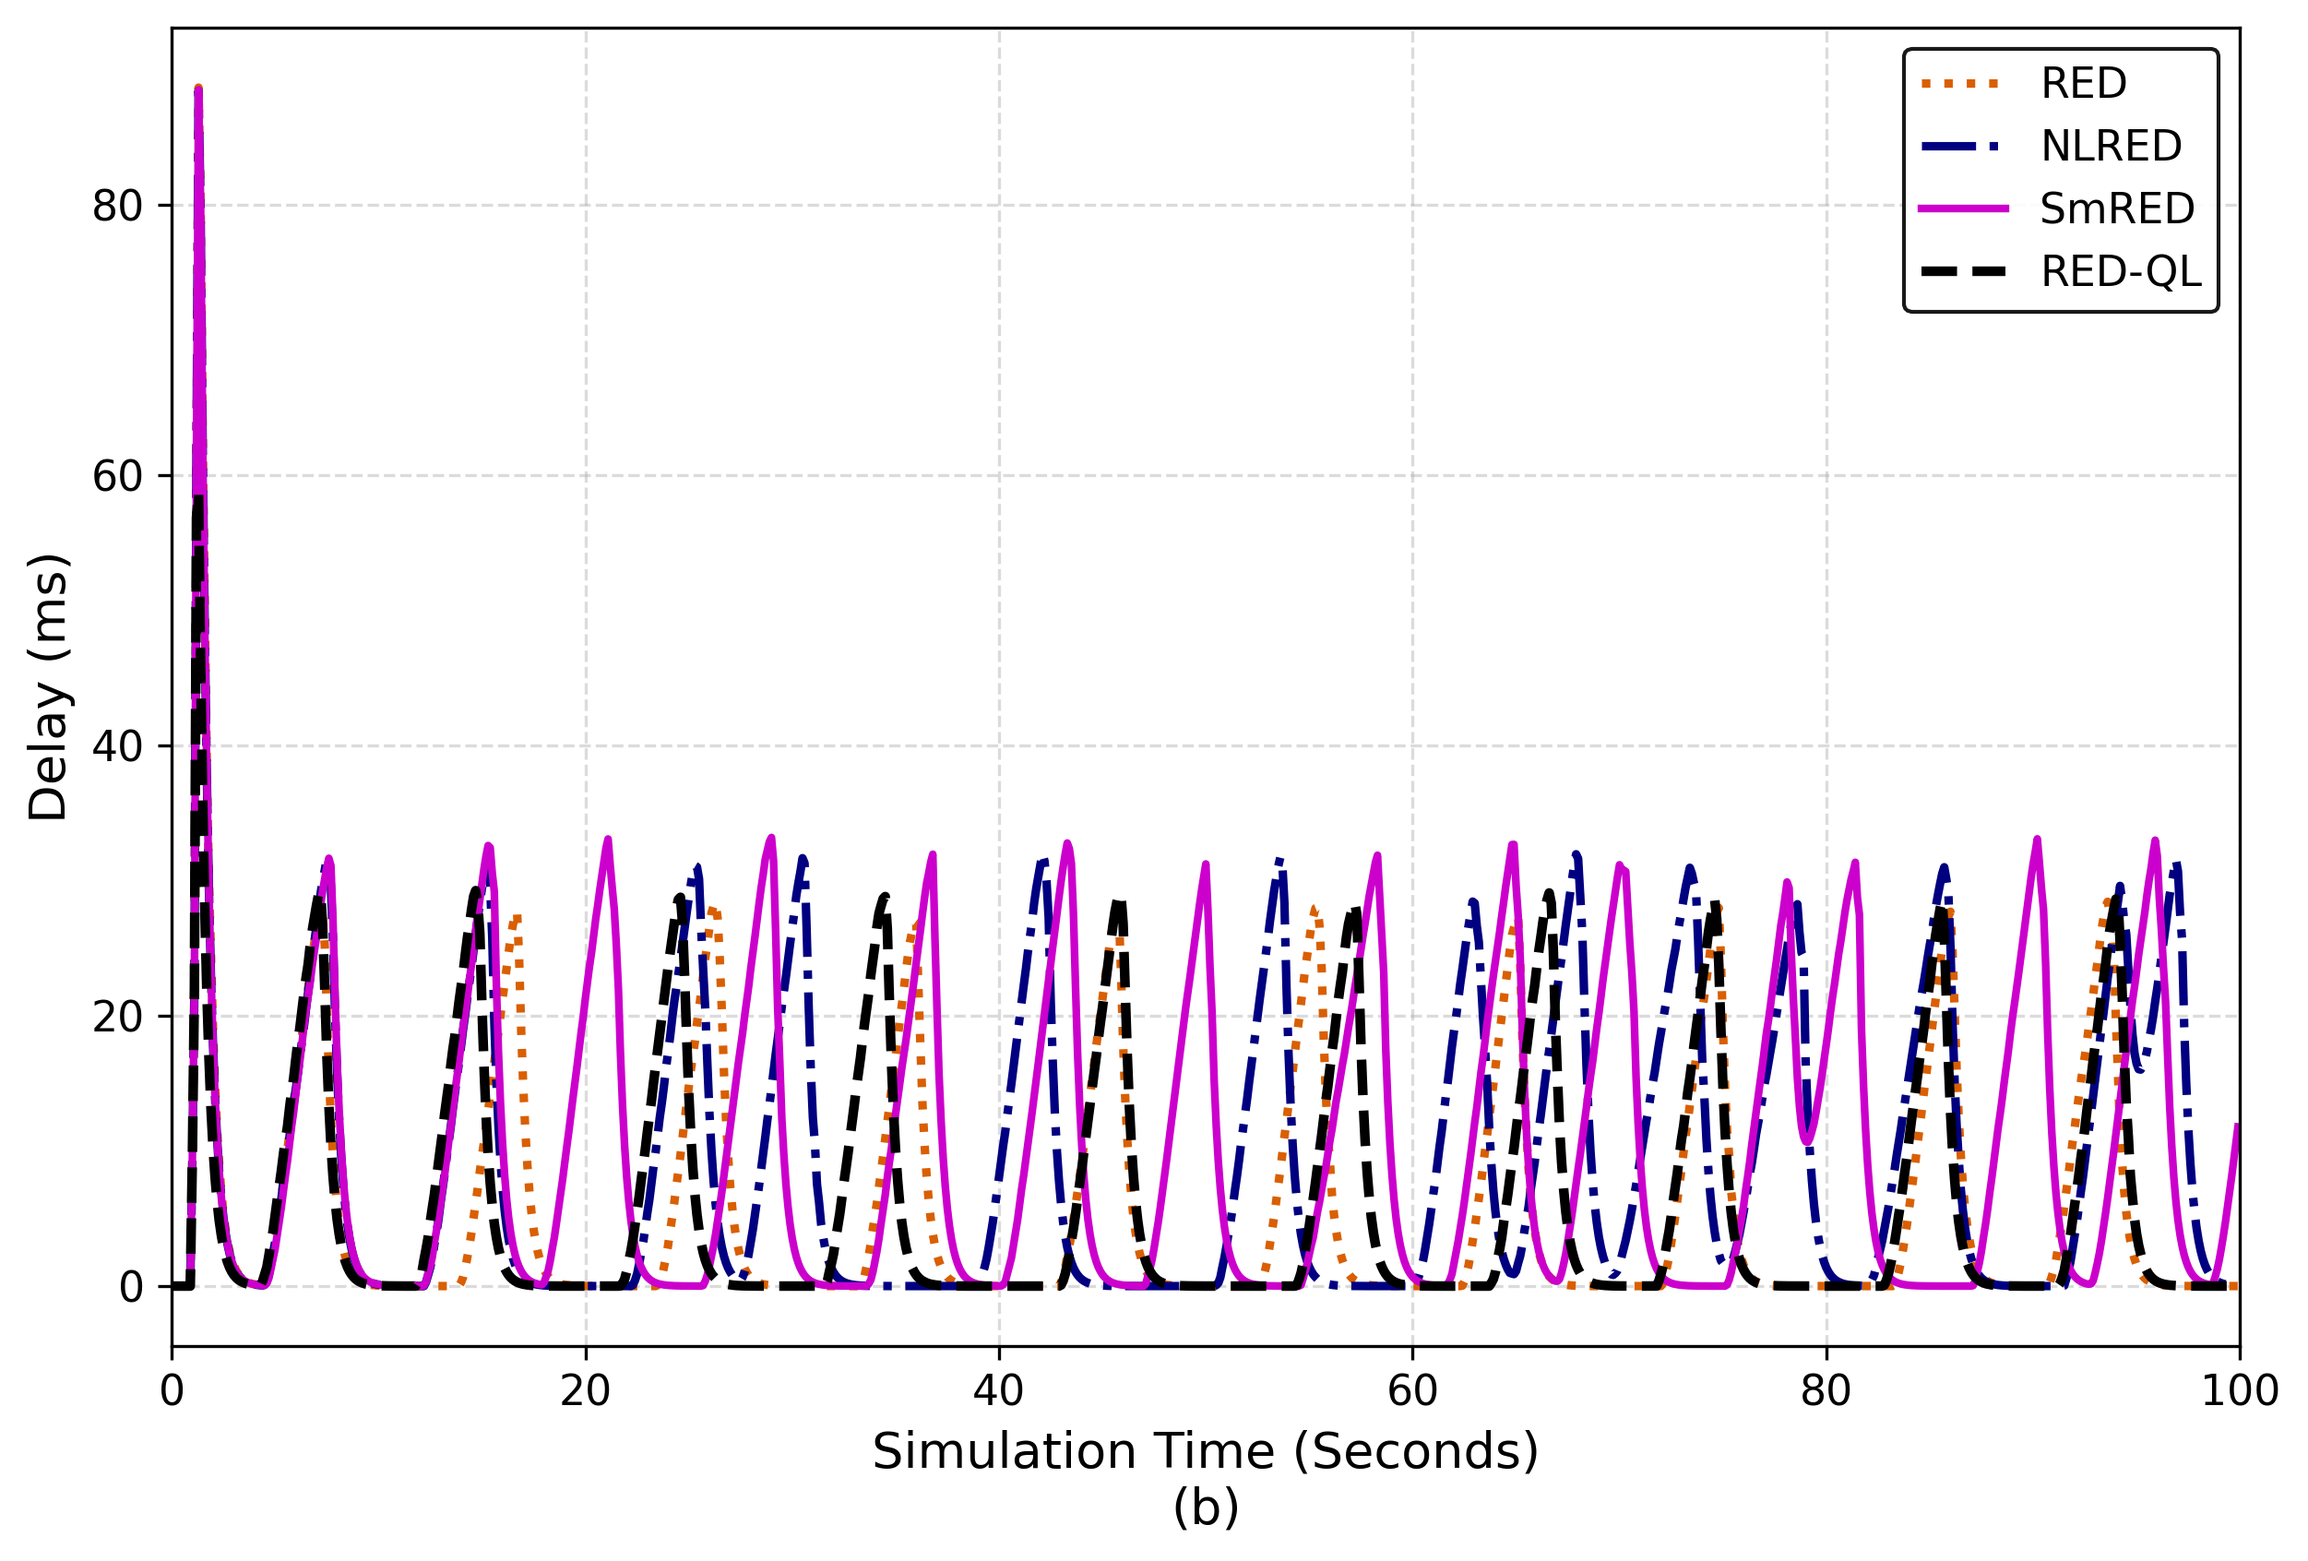
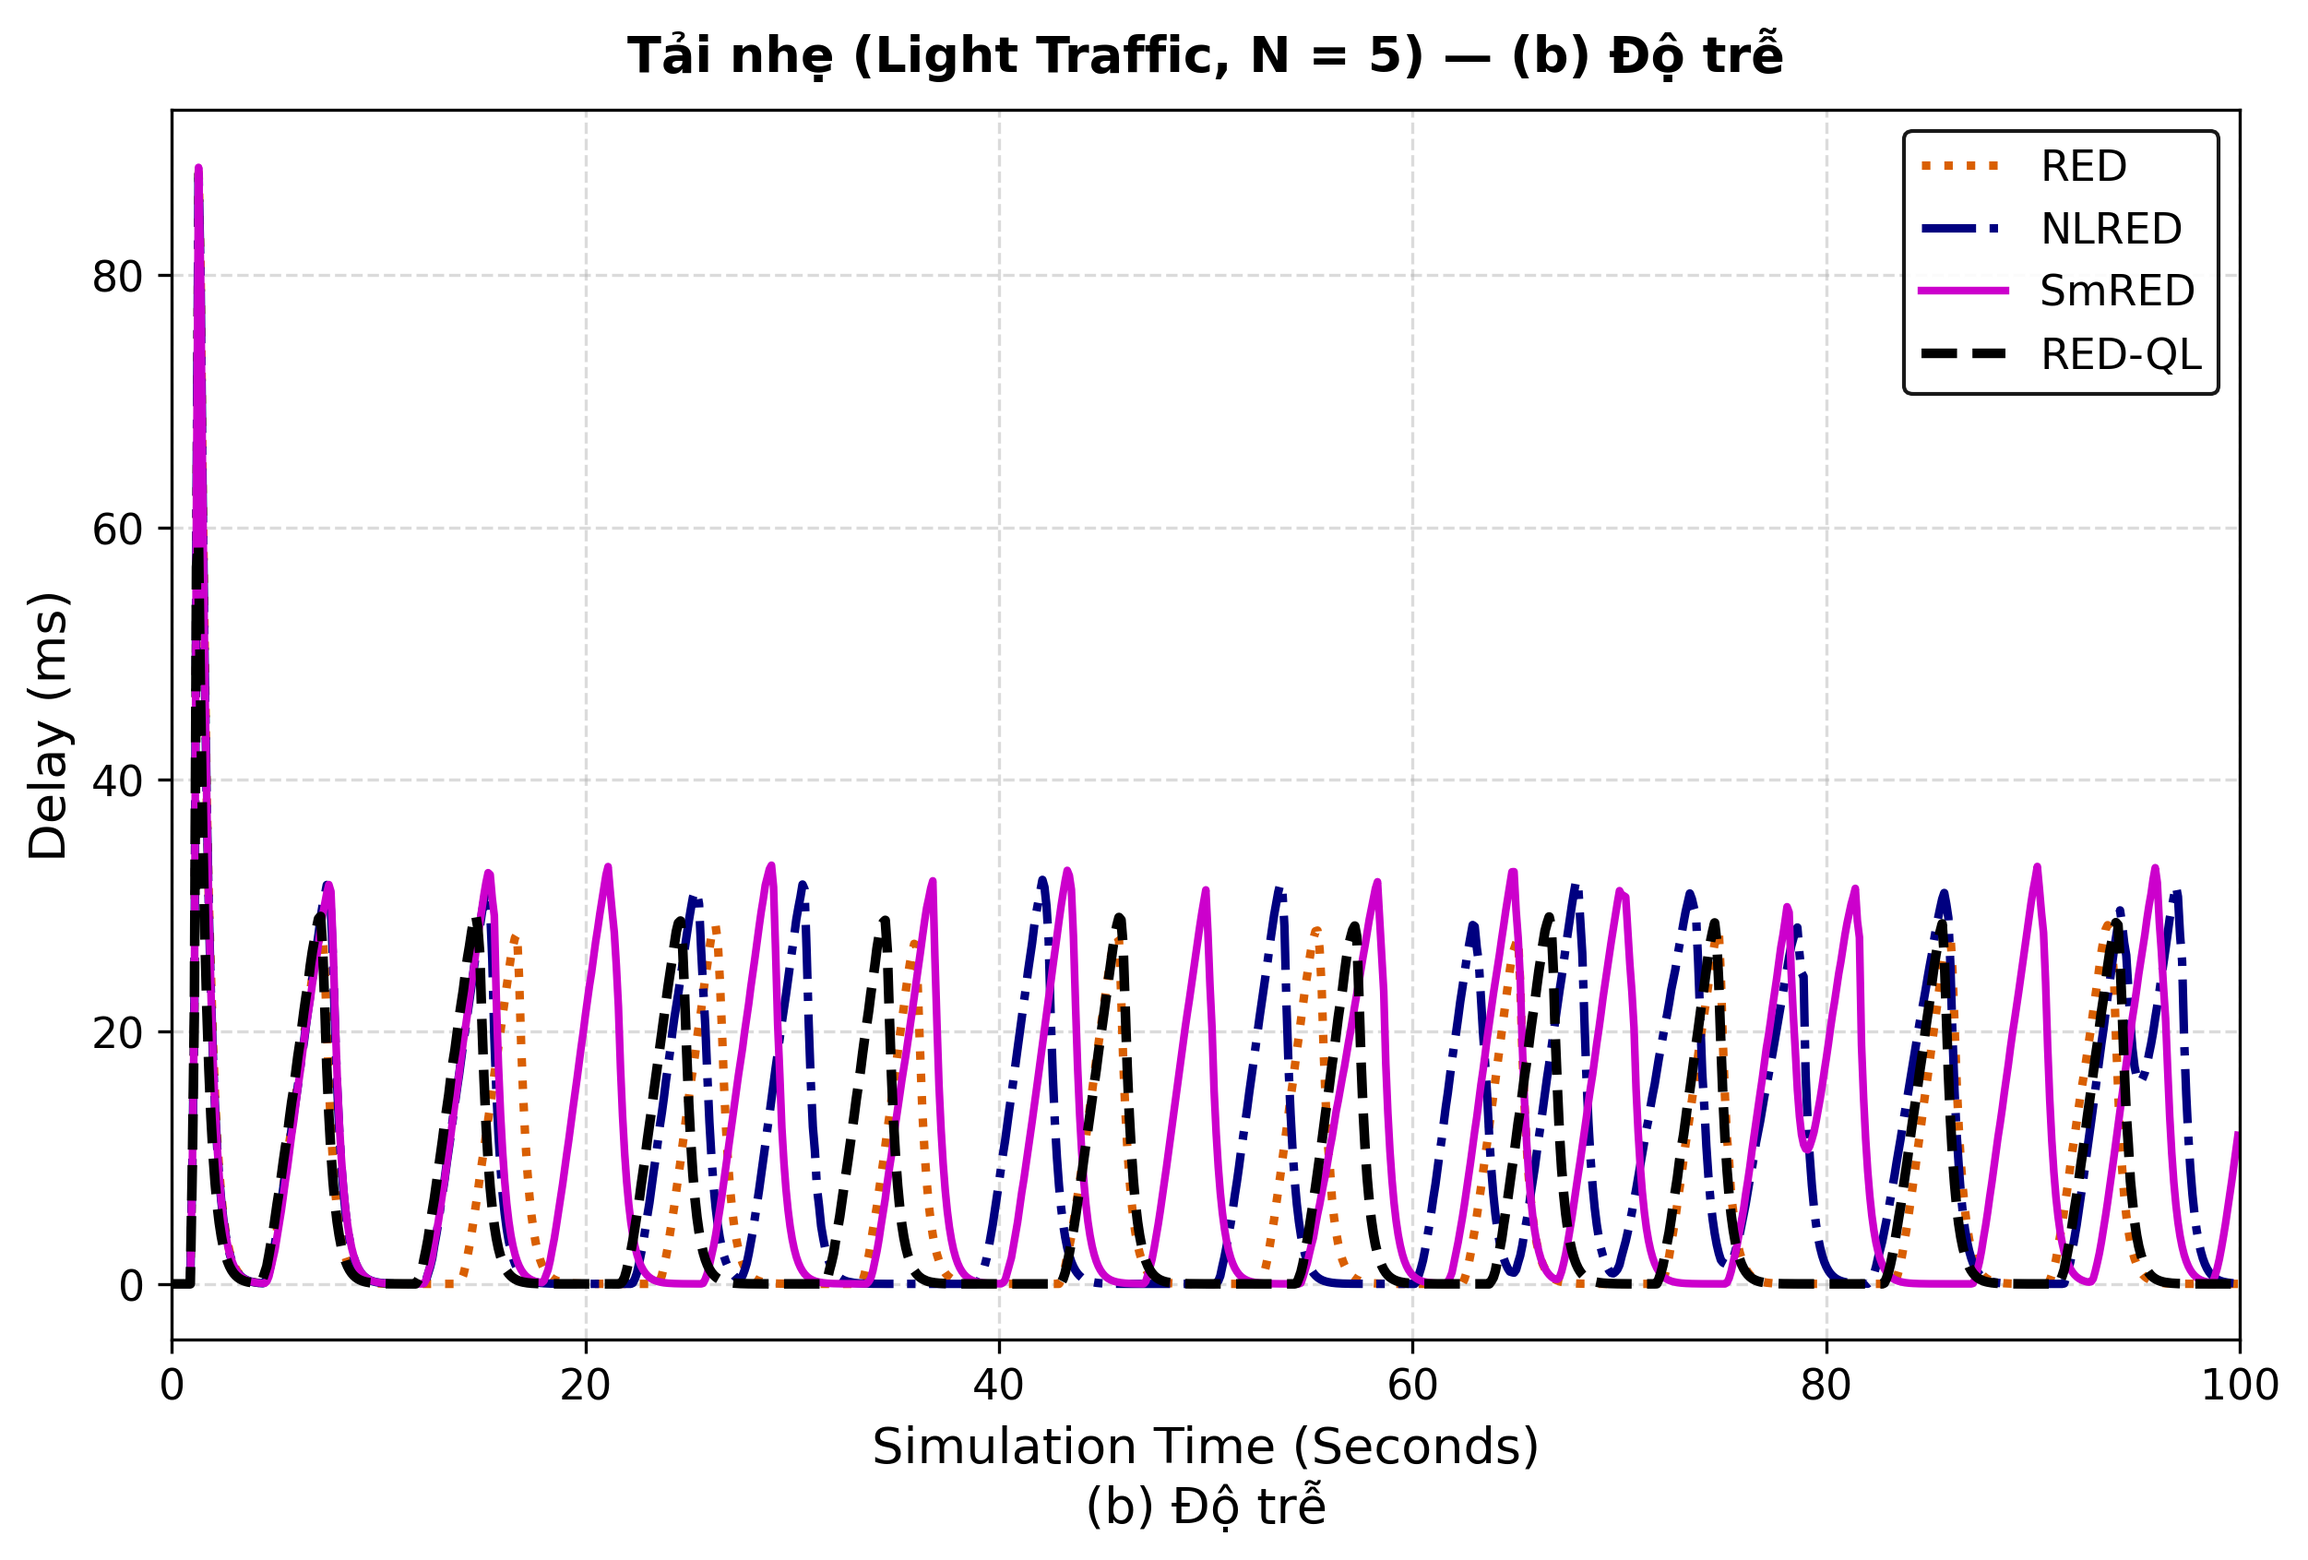
Cap nhat nhan bieu do (a) hang doi, (b) do tre, (c) thong luong theo 3 muc tai

diff --git a/scratch/red-ql-project/plot_results.py b/scratch/red-ql-project/plot_results.py
@@ -60,19 +60,21 @@ styles = {
     'RED-QL': {'color': '#000000', 'ls': '--', 'lw': 2.5}
 }
 
+# Thêm nhãn tiếng Việt cho từng kịch bản tải
 scenarios = [
-    ("Light", 3, "N = 5", "a"),
-    ("Moderate", 4, "N = 20", "b"),
-    ("Heavy", 5, "N = 50", "c")
+    ("Light", "Tải nhẹ", 3, "N = 5", "a"),
+    ("Moderate", "Tải trung bình", 4, "N = 20", "b"),
+    ("Heavy", "Tải nặng", 5, "N = 50", "c")
 ]
 
 full_table_rows = []
 metrics_by_sc = {"Queue": [], "Delay": [], "Tput": []}
 
 print("\n=== BẢNG TỔNG HỢP KẾT QUẢ MÔ PHỎNG TỪ NS-3 ===")
-for sc_name, fig_num, n_label, sc_letter in scenarios:
+for sc_name, vn_sc, fig_num, n_label, sc_letter in scenarios:
     # Khởi tạo ảnh gộp 3 biểu đồ
-    fig_comb = plt.figure(figsize=(14, 10), dpi=300)
+    fig_comb = plt.figure(figsize=(14, 10.5), dpi=300)
+    fig_comb.subplots_adjust(hspace=0.34, wspace=0.22, top=0.90)
     ax1 = fig_comb.add_subplot(2, 2, 1)
     ax2 = fig_comb.add_subplot(2, 2, 2)
     ax3 = fig_comb.add_subplot(2, 2, (3, 4))
@@ -81,19 +83,25 @@ for sc_name, fig_num, n_label, sc_letter in scenarios:
     new_w = pos3.width * 0.48
     ax3.set_position([pos3.x0 + (pos3.width - new_w) / 2.0, pos3.y0, new_w, pos3.height])
 
+    # Tiêu đề chung cho ảnh gộp 3-trong-1
+    fig_comb.suptitle(
+        f"Hình {fig_num}: Kịch bản {vn_sc.lower()} ({sc_name} Traffic, {n_label}) — (a) hàng đợi; (b) độ trễ; (c) thông lượng",
+        fontsize=14, fontweight='bold', y=0.96
+    )
+
     # Khởi tạo 3 ảnh tách rời cho từng yếu tố (a), (b), (c)
     fig_a, ax_a = plt.subplots(figsize=(8.5, 5.8), dpi=300)
     fig_b, ax_b = plt.subplots(figsize=(8.5, 5.8), dpi=300)
     fig_c, ax_c = plt.subplots(figsize=(8.5, 5.8), dpi=300)
 
-    print(f"\n--- Kịch bản: {sc_name} Traffic ---")
+    print(f"\n--- Kịch bản: {vn_sc} ({sc_name} Traffic - {n_label}) ---")
     print(f"{'Thuật toán':<10} | {'Peak Queue':<12} | {'Avg Queue (pkts)':<18} | {'Avg Delay (ms)':<16} | {'Throughput (Mbps)':<18}")
     print("-" * 82)
 
     sc_rows = []
-    q_row = [f"{sc_name} ({n_label})"]
-    d_row = [f"{sc_name} ({n_label})"]
-    t_row = [f"{sc_name} ({n_label})"]
+    q_row = [f"{vn_sc}\n({n_label})"]
+    d_row = [f"{vn_sc}\n({n_label})"]
+    t_row = [f"{vn_sc}\n({n_label})"]
 
     for idx, alg in enumerate(['RED', 'NLRED', 'SmRED', 'RED-QL']):
         q_path = os.path.join(RESULTS_DIR, f"{alg}_{sc_name}_queue.dat")
@@ -124,7 +132,7 @@ for sc_name, fig_num, n_label, sc_letter in scenarios:
 
         print(f"{alg:<10} | {peak_q:<12.2f} | {avg_q:<18.2f} | {avg_d:<16.2f} | {tput:<18.2f}")
 
-        sc_col_text = f"{sc_name} Traffic\n({n_label})" if idx == 0 else ""
+        sc_col_text = f"{vn_sc}\n({sc_name}, {n_label})" if idx == 0 else ""
         full_table_rows.append([sc_col_text, alg, f"{peak_q:.2f}", f"{avg_q:.2f}", f"{avg_d:.2f}", f"{tput:.2f}"])
         sc_rows.append([alg, f"{peak_q:.2f}", f"{avg_q:.2f}", f"{avg_d:.2f}", f"{tput:.2f}"])
         q_row.append(f"{avg_q:.2f}")
@@ -141,7 +149,7 @@ for sc_name, fig_num, n_label, sc_letter in scenarios:
         cols_sc = ["Thuật toán", "Peak Queue\n(packets)", "Avg Queue\n(packets)", "Avg Delay\n(ms)", "Throughput\n(Mbps)"]
         fig_s, ax_s = plt.subplots(figsize=(9.0, 3.4), dpi=300)
         ax_s.axis('off')
-        ax_s.set_title(f"Kết quả mô phỏng kịch bản {sc_name} Traffic ({n_label})", fontsize=13, fontweight='bold', pad=12)
+        ax_s.set_title(f"Kết quả mô phỏng kịch bản {vn_sc.lower()} - {sc_name} Traffic ({n_label})", fontsize=13, fontweight='bold', pad=12)
         t_s = ax_s.table(cellText=sc_rows, colLabels=cols_sc, cellLoc='center', loc='center', colWidths=[0.2]*5)
         t_s.auto_set_font_size(False)
         t_s.set_fontsize(11)
@@ -167,11 +175,11 @@ for sc_name, fig_num, n_label, sc_letter in scenarios:
         fig_s.savefig(os.path.join(PLOTS_DIR, f"Bang_5_5{sc_letter}_{sc_name}_Traffic.png"), bbox_inches='tight', dpi=300)
         plt.close(fig_s)
 
-    # Lưu ảnh biểu đồ gộp
+    # Lưu ảnh biểu đồ gộp với nhãn (a) hàng đợi; (b) độ trễ; (c) thông lượng
     for ax, ylabel, sub_label, leg_loc in [
-        (ax1, "Average Queue Size (Packets)", "(a)", "upper right"),
-        (ax2, "Delay (ms)", "(b)", "upper right"),
-        (ax3, "Throughput (Mbps)", "(c)", "lower right")
+        (ax1, "Average Queue Size (Packets)", "(a) Hàng đợi", "upper right"),
+        (ax2, "Delay (ms)", "(b) Độ trễ", "upper right"),
+        (ax3, "Throughput (Mbps)", "(c) Thông lượng", "lower right")
     ]:
         ax.set_xlabel(f"Simulation Time (Seconds)\n{sub_label}")
         ax.set_ylabel(ylabel)
@@ -182,12 +190,13 @@ for sc_name, fig_num, n_label, sc_letter in scenarios:
     fig_comb.savefig(os.path.join(PLOTS_DIR, f"Figure_{fig_num}_{sc_name}_Traffic.png"), bbox_inches='tight', dpi=300)
     plt.close(fig_comb)
 
-    # Lưu 3 ảnh biểu đồ tách rời (a, b, c)
+    # Lưu 3 ảnh biểu đồ tách rời (a, b, c) kèm tiêu đề tải và nhãn tương ứng
     for fig_sep, ax_sep, ylabel, sub_label, suffix, leg_loc in [
-        (fig_a, ax_a, "Average Queue Size (Packets)", "(a)", "a_Queue", "upper right"),
-        (fig_b, ax_b, "Delay (ms)", "(b)", "b_Delay", "upper right"),
-        (fig_c, ax_c, "Throughput (Mbps)", "(c)", "c_Throughput", "lower right")
+        (fig_a, ax_a, "Average Queue Size (Packets)", "(a) Hàng đợi", "a_Queue", "upper right"),
+        (fig_b, ax_b, "Delay (ms)", "(b) Độ trễ", "b_Delay", "upper right"),
+        (fig_c, ax_c, "Throughput (Mbps)", "(c) Thông lượng", "c_Throughput", "lower right")
     ]:
+        ax_sep.set_title(f"{vn_sc} ({sc_name} Traffic, {n_label}) — {sub_label}", fontsize=13, fontweight='bold', pad=10)
         ax_sep.set_xlabel(f"Simulation Time (Seconds)\n{sub_label}")
         ax_sep.set_ylabel(ylabel)
         ax_sep.set_xlim(0, 100)
@@ -258,8 +267,8 @@ def save_metric_table(title, rows_data, fname):
     plt.savefig(os.path.join(PLOTS_DIR, fname), bbox_inches='tight', dpi=300)
     plt.close()
 
-save_metric_table("Bảng 1: So sánh kích thước hàng đợi trung bình - Average Queue Size (packets)", metrics_by_sc["Queue"], "Bang_1_Average_Queue_Size.png")
-save_metric_table("Bảng 2: So sánh độ trễ hàng đợi trung bình - Average Delay (ms)", metrics_by_sc["Delay"], "Bang_2_Average_Delay.png")
-save_metric_table("Bảng 3: So sánh thông lượng trung bình - Throughput (Mbps)", metrics_by_sc["Tput"], "Bang_3_Throughput.png")
+save_metric_table("Bảng 1: So sánh kích thước hàng đợi trung bình - (a) Hàng đợi (packets)", metrics_by_sc["Queue"], "Bang_1_Average_Queue_Size.png")
+save_metric_table("Bảng 2: So sánh độ trễ hàng đợi trung bình - (b) Độ trễ (ms)", metrics_by_sc["Delay"], "Bang_2_Average_Delay.png")
+save_metric_table("Bảng 3: So sánh thông lượng trung bình - (c) Thông lượng (Mbps)", metrics_by_sc["Tput"], "Bang_3_Throughput.png")
 
 print(f"\n-> Đã xuất toàn bộ biểu đồ và các bảng số liệu tại: {PLOTS_DIR}")
